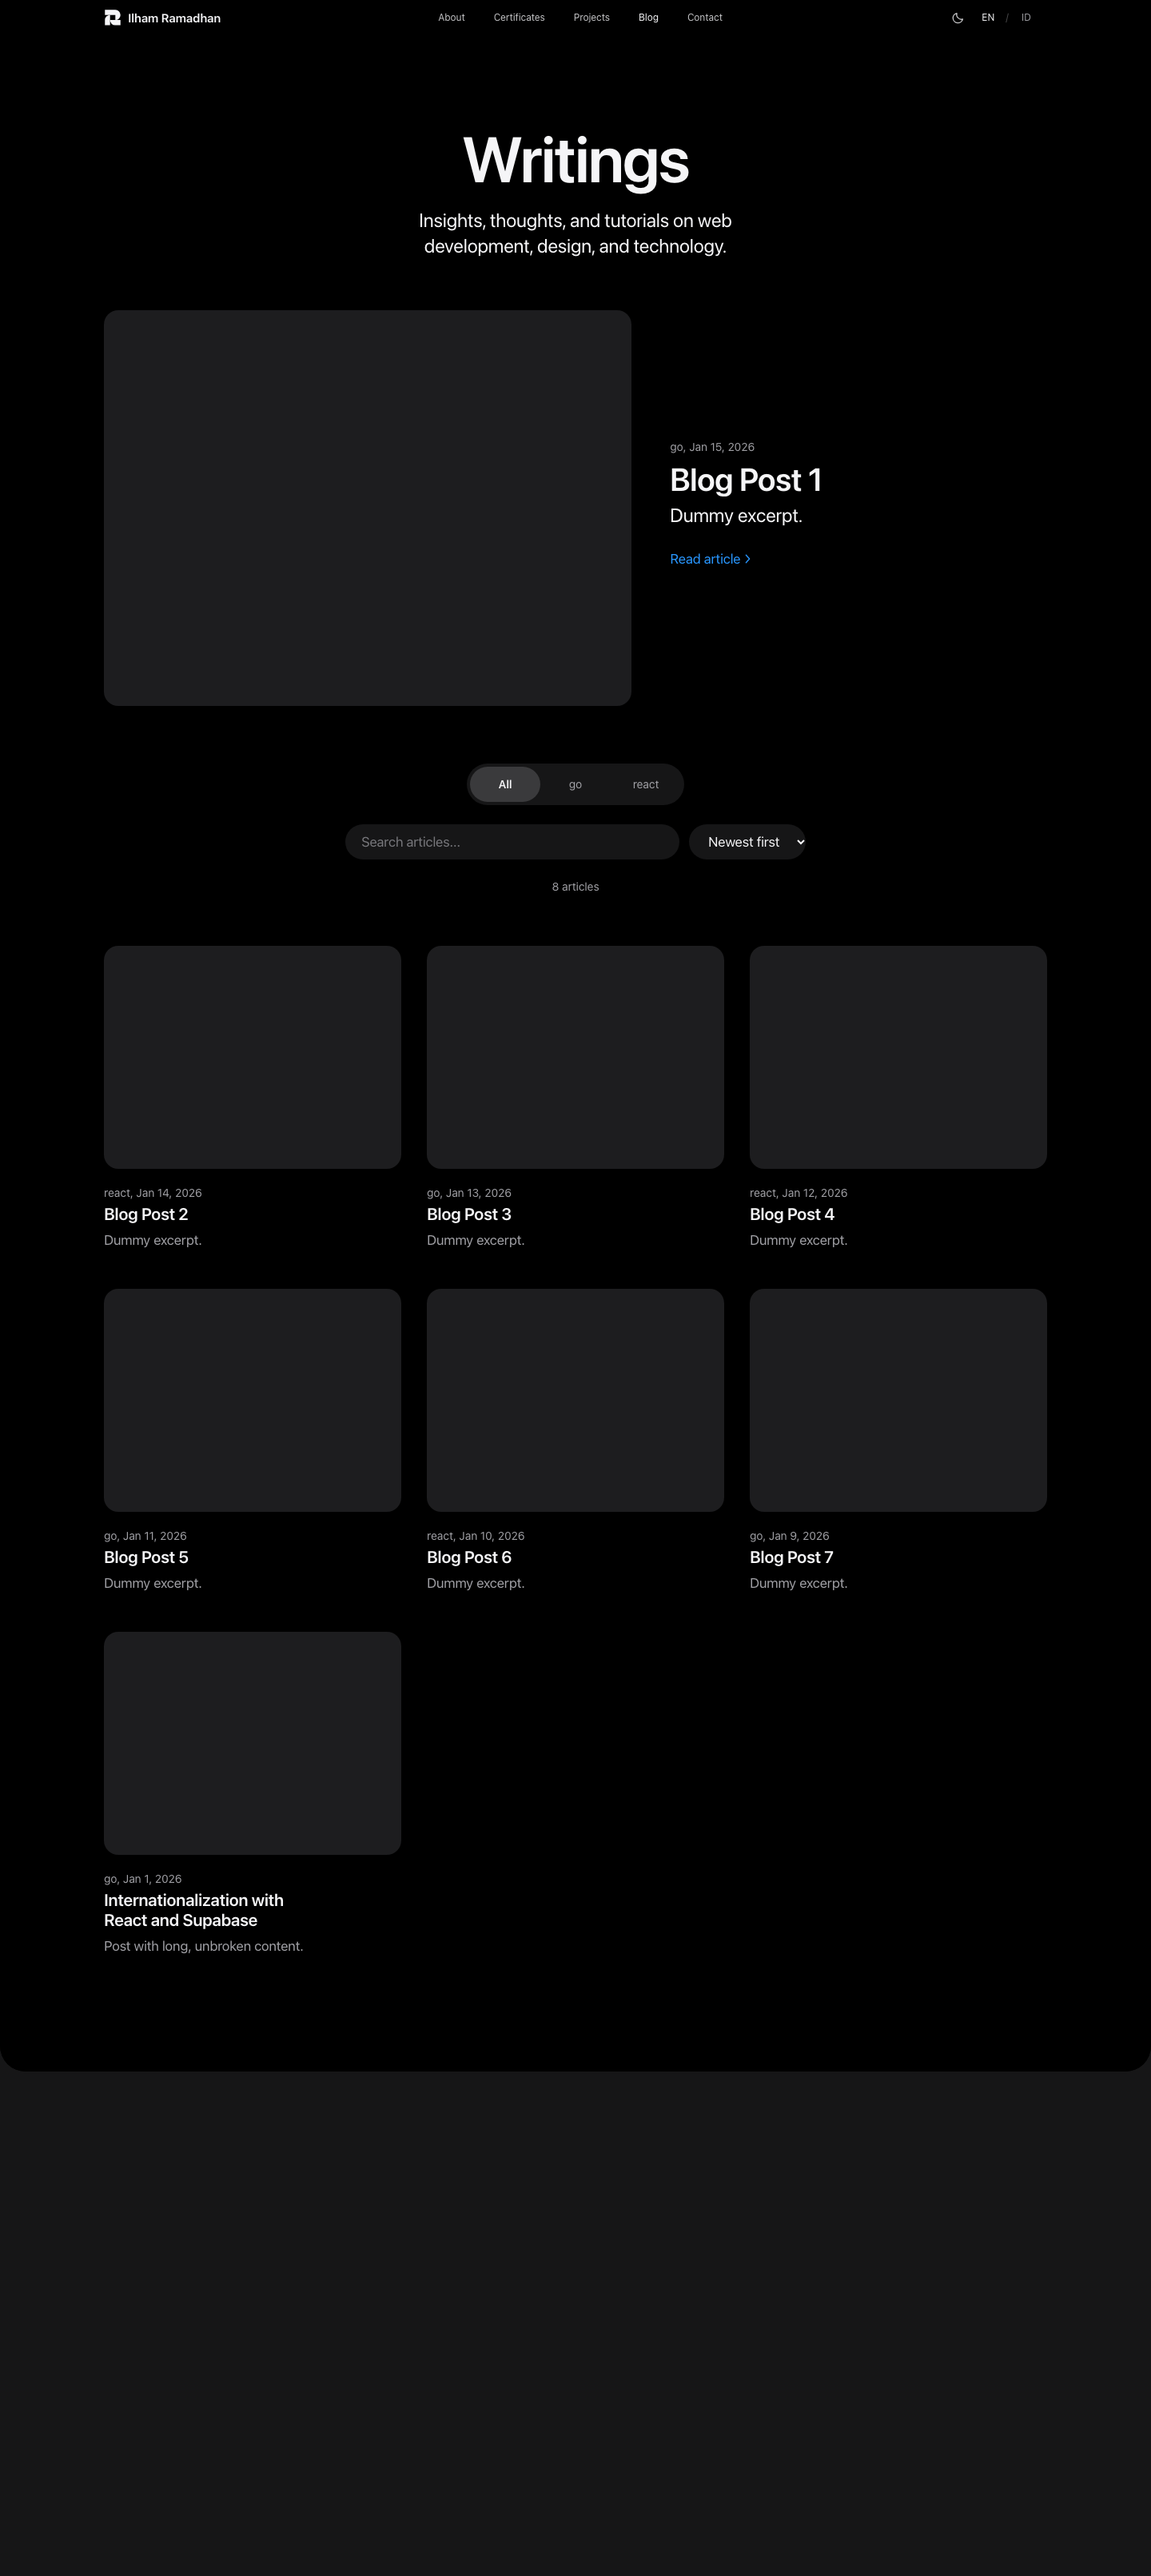
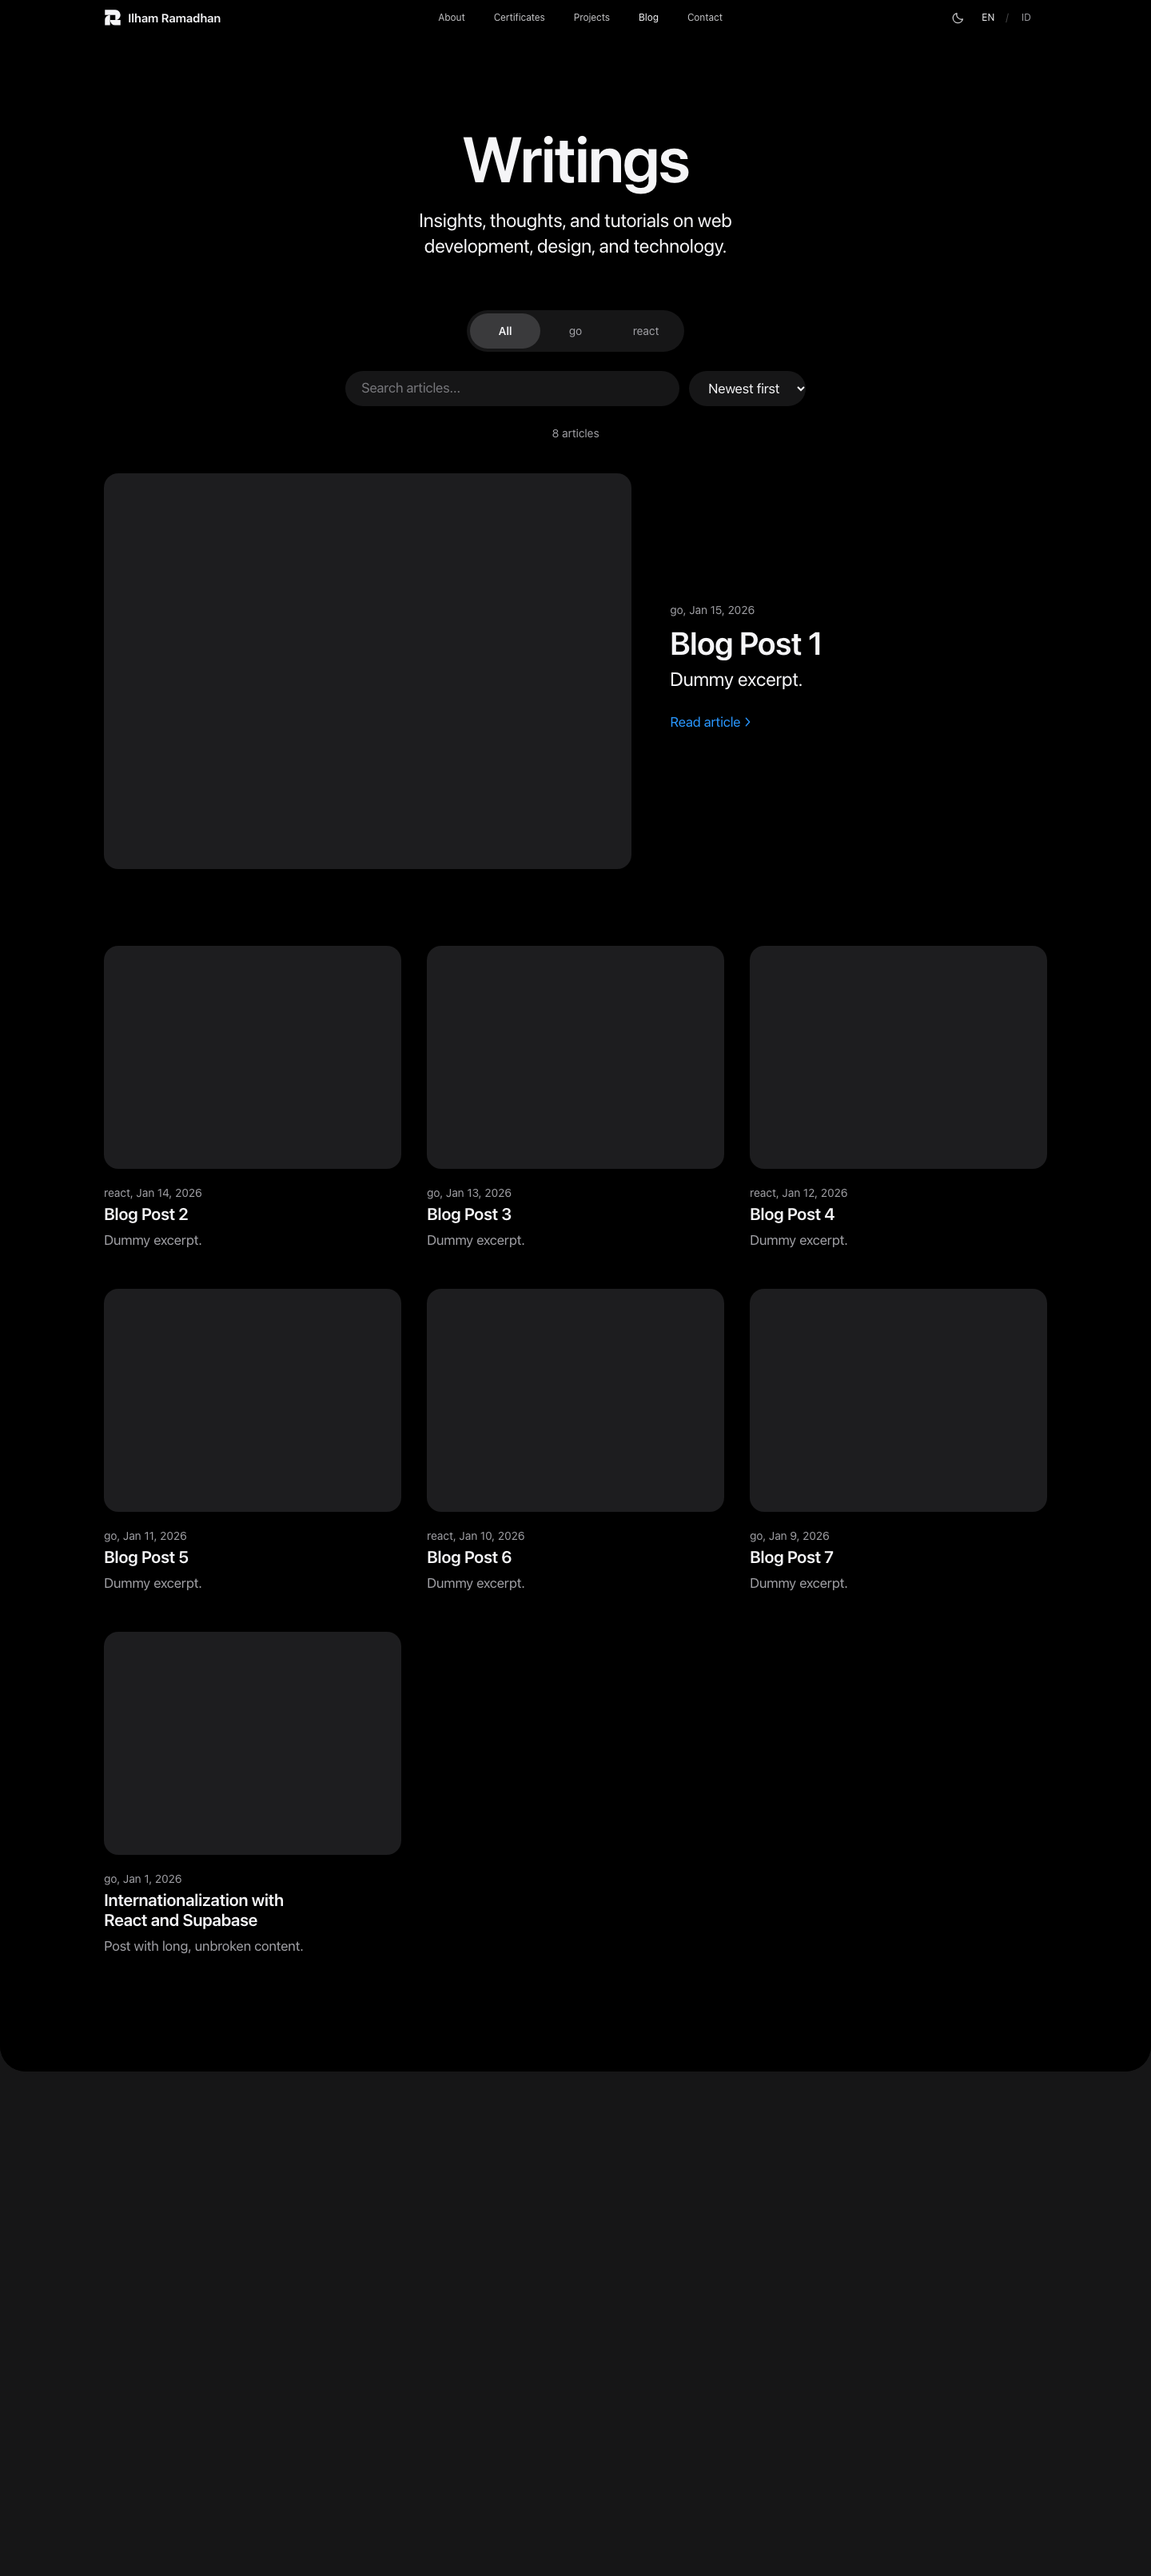
docs(redesign): R6b second screenshot round and STATE (R6b)

diff --git a/docs/redesign/STATE.md b/docs/redesign/STATE.md
@@ -22,24 +22,24 @@ Integration branch: `redesign/apple-clean` (from origin/main 7f7c54e; push with 
 
 ## Phases
 
-| ID  | Status | PR   | Notes                                                                                                                    |
-| --- | ------ | ---- | ------------------------------------------------------------------------------------------------------------------------ |
-| R0  | ✅     |      | baseline.md, inventory.md, screens/before (40), screens/reference (32); 404 not Lighthouse-measurable                    |
-| R1a | ✅     | #163 | React 19, R3F 9, Vite 8, Vitest 5, ESLint 10, router 8, Playwright 1.65, TS 6; holds below; CI green (735 e2e)           |
-| R1b | ✅     | #164 | TW 4.3 (@tailwindcss/vite), MG tokens/type/dark/Auto, Inter self-hosted, CSS budget 19.5; CI green                       |
-| R2  | ✅     | #165 | tile partials (static, R3 hooks as data-*), Field/Dialog/Pagination restyled; CSS budget 20.5; CI green                  |
-| I1  | ✅     | #166 | typed en/id dicts, /id routes + prerender + hreflang + sitemap, banner; id dict lazy; CI green                           |
-| R3  | ✅     | #167 | GSAP 3.15 + Lenis lazy (48.4 KiB), ViewTransition route fade, /__motion dev-only; CI green                               |
-| R4  | ✅     | #168 | 44px nav + brand collapse, sheet (trap, Lenis stop), doormat + wordmark rise (P17), skip link, Lenis scroll; CI green    |
-| R5  | ✅     | #170 | home tiles + D2 lanyard gate (idle boot, long tasks 3), ContactForm focus-visible; home 143 KiB; JS total 1640           |     |
-| I2  | ✅     | #169 | translations jsonb (owner SQL pending), localize(), admin EN/ID tabs, lazy api.ts; works pre/post migration              |     |
-| R6a | ⬜     |      |                                                                                                                          |
-| R6b | 🟡     |      | blog list (split feature, segmented tags, rows, Flip) + Newsroom article; /blog initial JS 140.6 vs budget 138 (see log) |
-| R6c | ⬜     |      |                                                                                                                          |
-| R6d | ⬜     |      |                                                                                                                          |
-| R7  | ⬜     |      |                                                                                                                          |
-| R8  | ⬜     |      |                                                                                                                          |
-| R9  | ⬜     |      |                                                                                                                          |
+| ID  | Status | PR   | Notes                                                                                                                 |
+| --- | ------ | ---- | --------------------------------------------------------------------------------------------------------------------- |
+| R0  | ✅     |      | baseline.md, inventory.md, screens/before (40), screens/reference (32); 404 not Lighthouse-measurable                 |
+| R1a | ✅     | #163 | React 19, R3F 9, Vite 8, Vitest 5, ESLint 10, router 8, Playwright 1.65, TS 6; holds below; CI green (735 e2e)        |
+| R1b | ✅     | #164 | TW 4.3 (@tailwindcss/vite), MG tokens/type/dark/Auto, Inter self-hosted, CSS budget 19.5; CI green                    |
+| R2  | ✅     | #165 | tile partials (static, R3 hooks as data-*), Field/Dialog/Pagination restyled; CSS budget 20.5; CI green               |
+| I1  | ✅     | #166 | typed en/id dicts, /id routes + prerender + hreflang + sitemap, banner; id dict lazy; CI green                        |
+| R3  | ✅     | #167 | GSAP 3.15 + Lenis lazy (48.4 KiB), ViewTransition route fade, /__motion dev-only; CI green                            |
+| R4  | ✅     | #168 | 44px nav + brand collapse, sheet (trap, Lenis stop), doormat + wordmark rise (P17), skip link, Lenis scroll; CI green |
+| R5  | ✅     | #170 | home tiles + D2 lanyard gate (idle boot, long tasks 3), ContactForm focus-visible; home 143 KiB; JS total 1640        |     |
+| I2  | ✅     | #169 | translations jsonb (owner SQL pending), localize(), admin EN/ID tabs, lazy api.ts; works pre/post migration           |     |
+| R6a | ⬜     |      |                                                                                                                       |
+| R6b | 🟡     | #174 | blog list + Newsroom article on tiles; /blog 136.4 (= base), JS total +flip chunks only; awaiting orchestrator verify |
+| R6c | ⬜     |      |                                                                                                                       |
+| R6d | ⬜     |      |                                                                                                                       |
+| R7  | ⬜     |      |                                                                                                                       |
+| R8  | ⬜     |      |                                                                                                                       |
+| R9  | ⬜     |      |                                                                                                                       |
 
 Legend: ⬜ todo · 🟡 partial (finish, don't restart) · ✅ done + verified by orchestrator.
 
@@ -75,4 +75,4 @@ Legend: ⬜ todo · 🟡 partial (finish, don't restart) · ✅ done + verified 
 - 2026-11-24 R4 on redesign/R4-chrome: mutugading chrome ported (44px nav + brand collapse, no flyouts, Light/Dark/Auto menu, EN/ID same-page switch, mobile sheet w/ focus trap + Lenis stop, parchment doormat + reveal curtain + lazy wordmark rise w/ P17 refresh, skip link, ScrollManager on Lenis, Pagination labels via t()); nav/main moved into PublicLayout; Dialog portalled to body; budgets CSS 22.5 / privacy 132 / blog 138 / projects 164 / home 157; screens/R4; awaiting orchestrator verify.
 - 2026-11-24 R4 ✅ merged #168 (verified by orchestrator: gates green, full e2e 820 local, screens/R4 nav 1440 + footer 375 checked vs reference, CI green). Budgets CSS 22.5 / home 157 / privacy 132 / blog 138 / projects 164. Fixed along: AdminRoute non-admin redirect, Lenis hash scroll cut short, locale link hash after hydration. Left for R5: ContactForm focus ring; R6d: admin .btn-secondary gray-on-color (impeccable). Local `npm test`/format pick up untracked `.claude/worktrees/`: exclude or delete them. Next: R5 + I2 in parallel.
 - 2026-11-24 I2 ✅ merged #169 (verified by orchestrator: gates, e2e 182 desktop+tablet, CI green; fixed a pre-migration e2e race + /projects budget via lazy api.ts). **Owner: run `supabase/migrations/20261124000000_translations_jsonb.sql` in the SQL Editor, then record the version.** R5 ✅ #170 (verified: gates, full e2e desktop+tablet 373, screens/R5 1440+375 vs reference; Footer barrel import fixed, JS total 1630→1640 for lazy motion engines only; TOC e2e now measures the nav). Follow-ups: R4 footer curtain slows footer-link clicks from scrolled pages (~10s in Playwright); indigo classes in ArticleFooter/ShareBar/Carousel/LocaleBanner (R6). Next: R6a–R6d in parallel.
-- 2026-11-24 R6b on redesign/R6b-blog: /blog + /blog/:slug rebuilt on tiles (featured split tile, SegmentedControl tags, article rows with stagger + FlipGroup, 17px/680px column, TOC rail + Disclosure with sliding marker, hairline progress, chevron ShareBar, morph); indigo removed from shared article components; prose + hljs on MG tokens; FeaturedCarousel deleted; screens/R6b. Budgets: /blog 136.4 -> 140.6 and JS total 1637.5 -> 1649.8 (new tile/motion chunks load on /blog; budgets NOT raised, orchestrator decides). Open: project-detail-reading.spec TOC selector (details/summary) breaks on tablet because TocDisclosure is now the shared Disclosure (R6a owns it).
+- 2026-11-24 R6b on redesign/R6b-blog (PR #174): /blog + /blog/:slug rebuilt on tiles (split featured, SegmentedControl tags, rows + stagger + FlipGroup, 17px/680px column, TOC rail + Disclosure with sliding marker, hairline progress, chevron ShareBar, morph); indigo removed from article components; prose + hljs on MG tokens; FeaturedCarousel deleted. /blog initial JS back to base 136.4 via hero markup without Tile/TileHeading (ponytail comment in pages/blog.tsx) and a lazy card chunk. Project-detail TOC spec now targets the shared Disclosure button. Gotcha: a dynamic import of a module that pulls tile partials can re-split shared chunks (i18n, hooks) and push /privacy +1 KiB; check every route budget after adding one.
